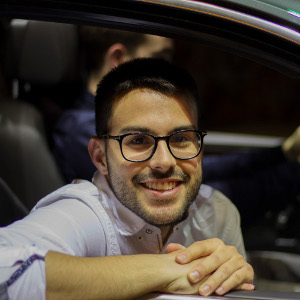
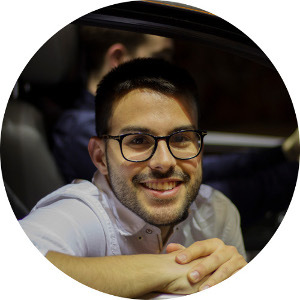
Use of normal picture

diff --git a/index.html b/index.html
@@ -80,9 +80,8 @@
                                     </p>
                                 </td>
                                 <td style="padding:2.5%;width:40%;max-width:40%;text-align:center">
-                                    <a href="images/duroz.jpg" target="_blank"><img
-                                            style="width:100%;max-width:100%;margin-bottom:20px;" alt="profile photo"
-                                            src="images/duroz-circle.jpg" class="hoverZoomLink"></a>
+                                    <img style="width:100%;max-width:100%;margin-bottom:20px;" alt="profile photo"
+                                        src="images/duroz.jpg">
                                     <a class="blog" href="/blog/">Read my blog</a>
                                 </td>
                             </tr>
